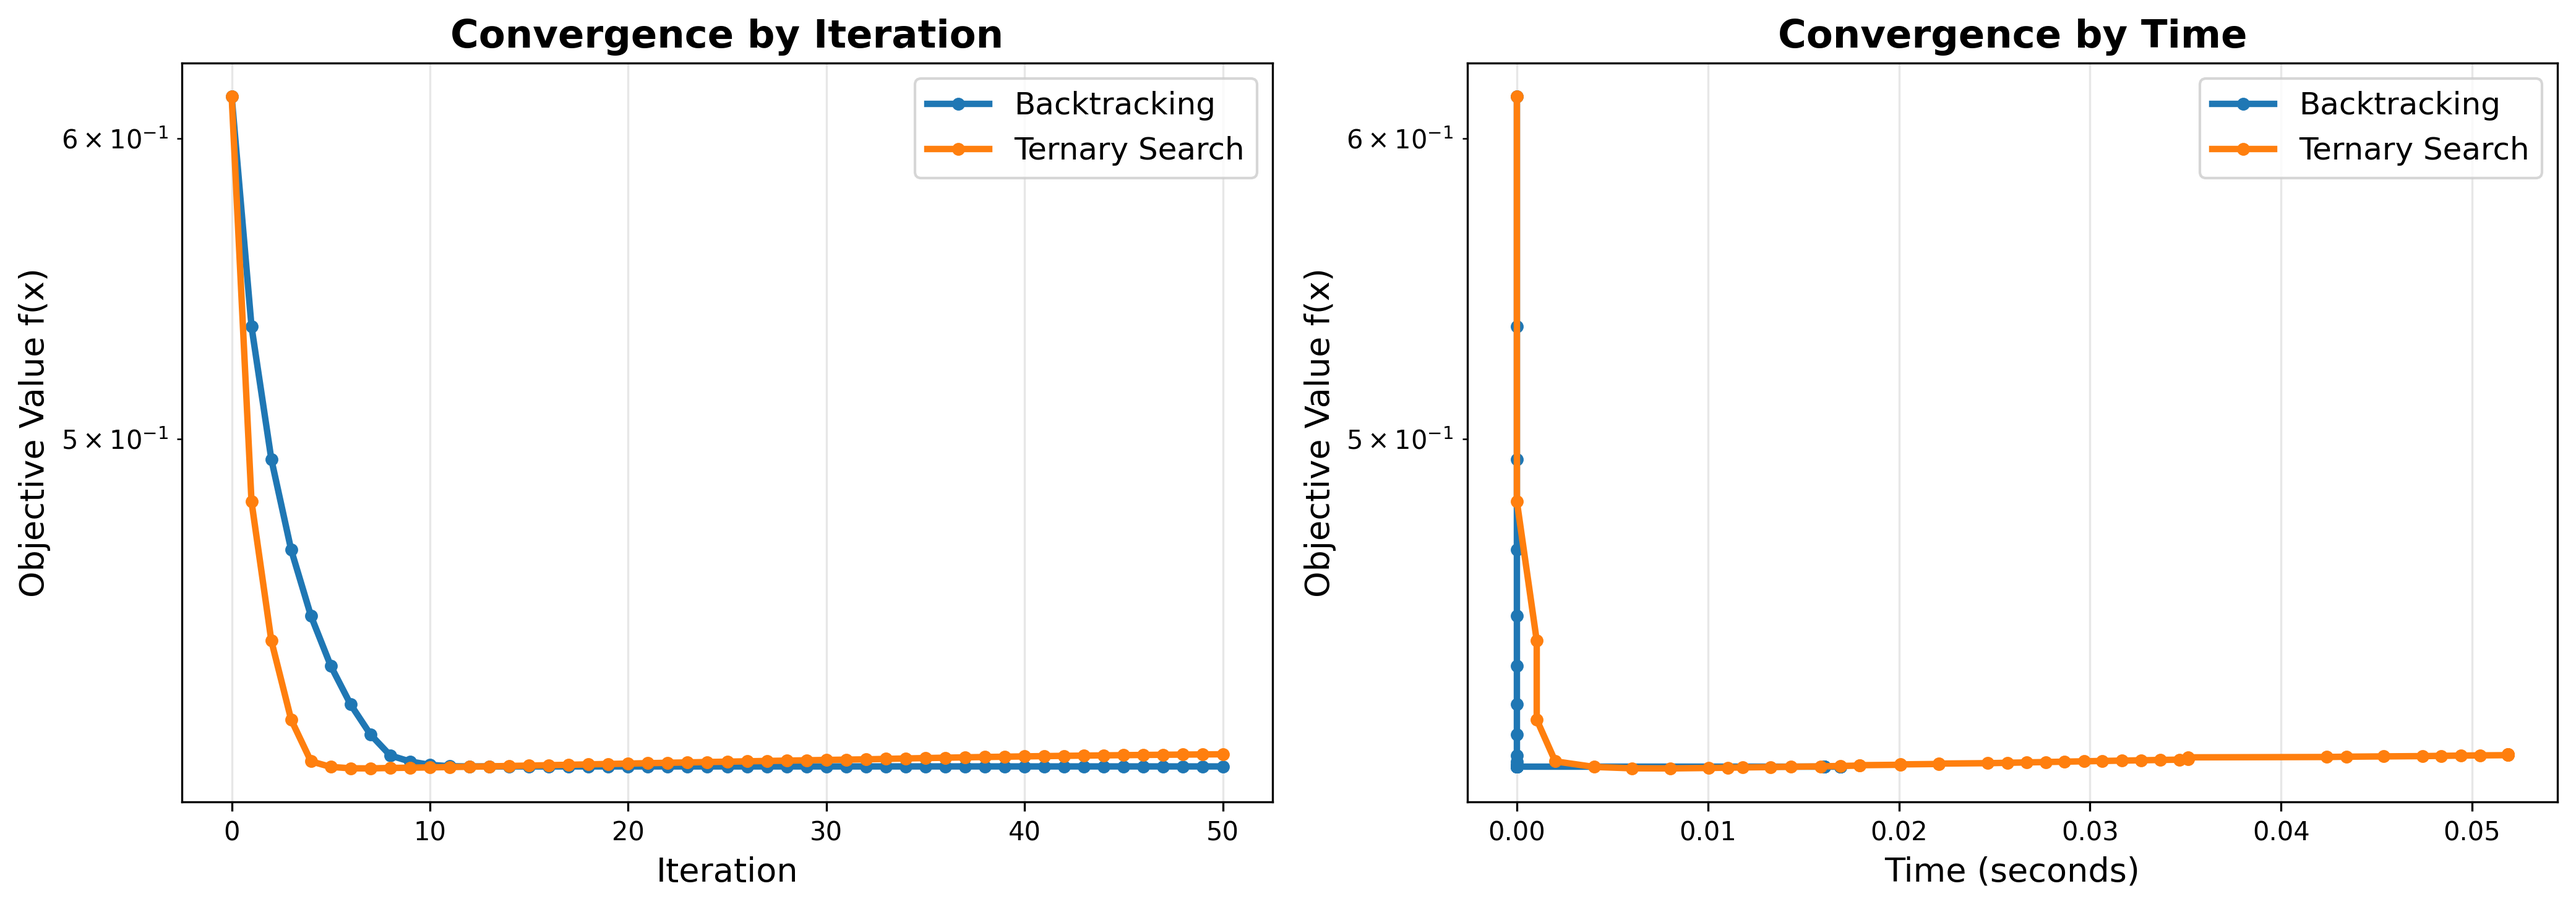
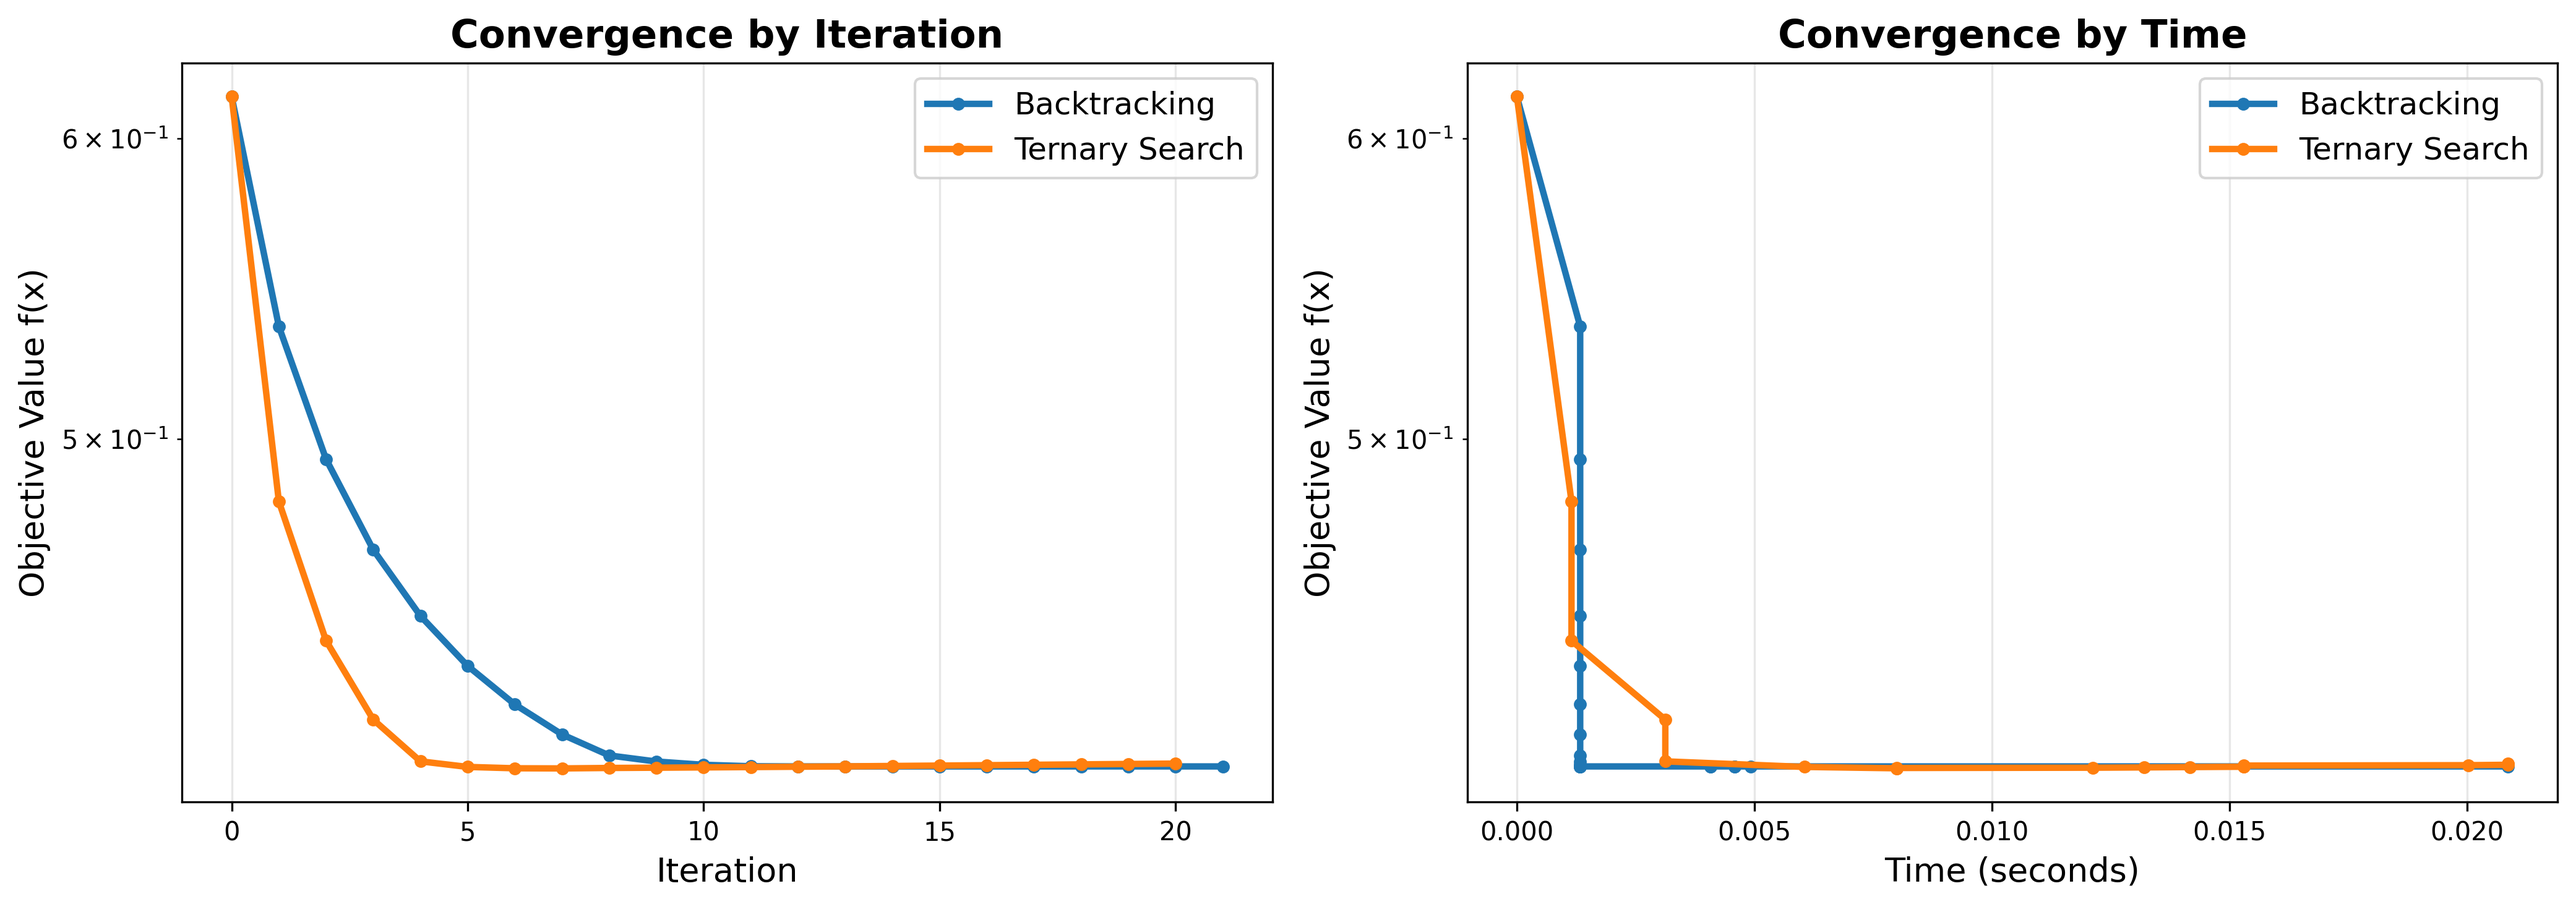
fix ternary search

diff --git a/algorithms/TERNARY_SEARCH/experiments/comparison_ts_backtrack.py b/algorithms/TERNARY_SEARCH/experiments/comparison_ts_backtrack.py
@@ -56,9 +56,6 @@ class ConstrainedProblem:
         if self.constraint_g1(x) > tol:
             return False
         
-        if 1 + 2*x1 + 8*x2 <= tol:
-            return False
-        
         return True
     
     def project_to_feasible(self, x: np.ndarray) -> np.ndarray:
@@ -82,9 +79,6 @@ class ConstrainedProblem:
             
             if self.constraint_g1(x_proj) > 0:
                 x_proj[0] += step
-                x_proj[1] += step
-            
-            if 1 + 2*x_proj[0] + 8*x_proj[1] <= 0:
                 x_proj[1] += step
         
         return x_proj
